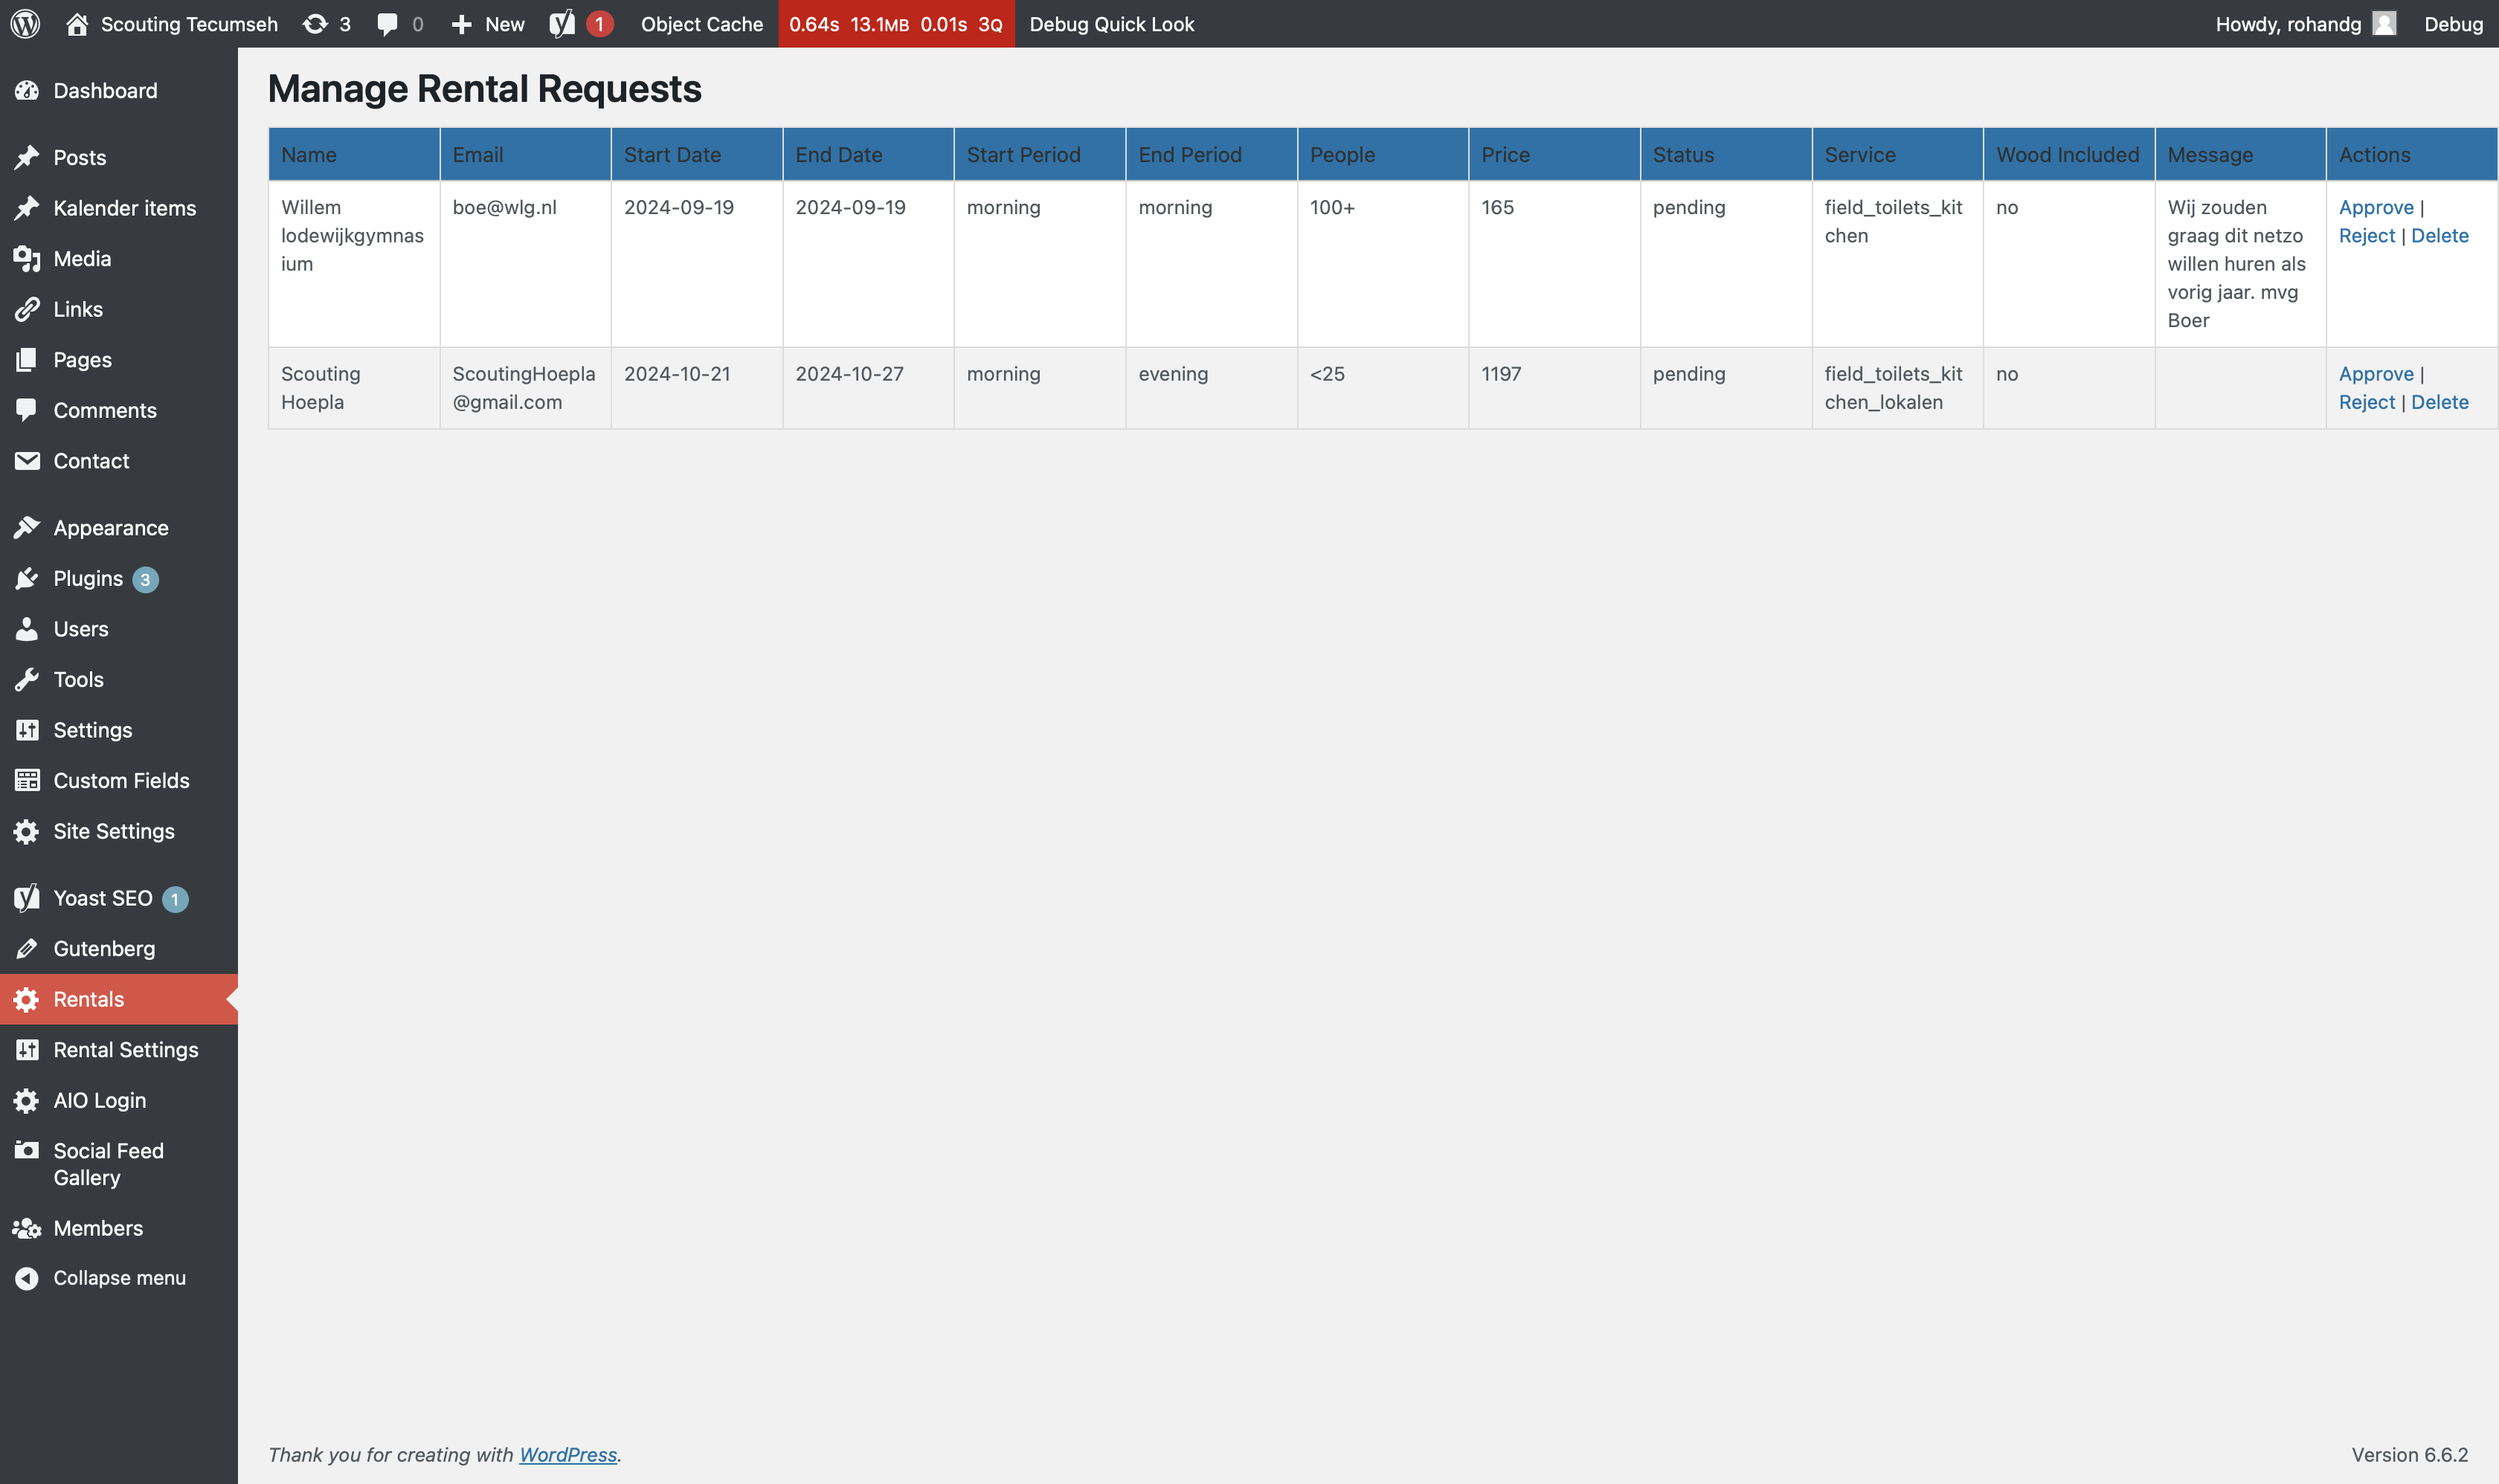
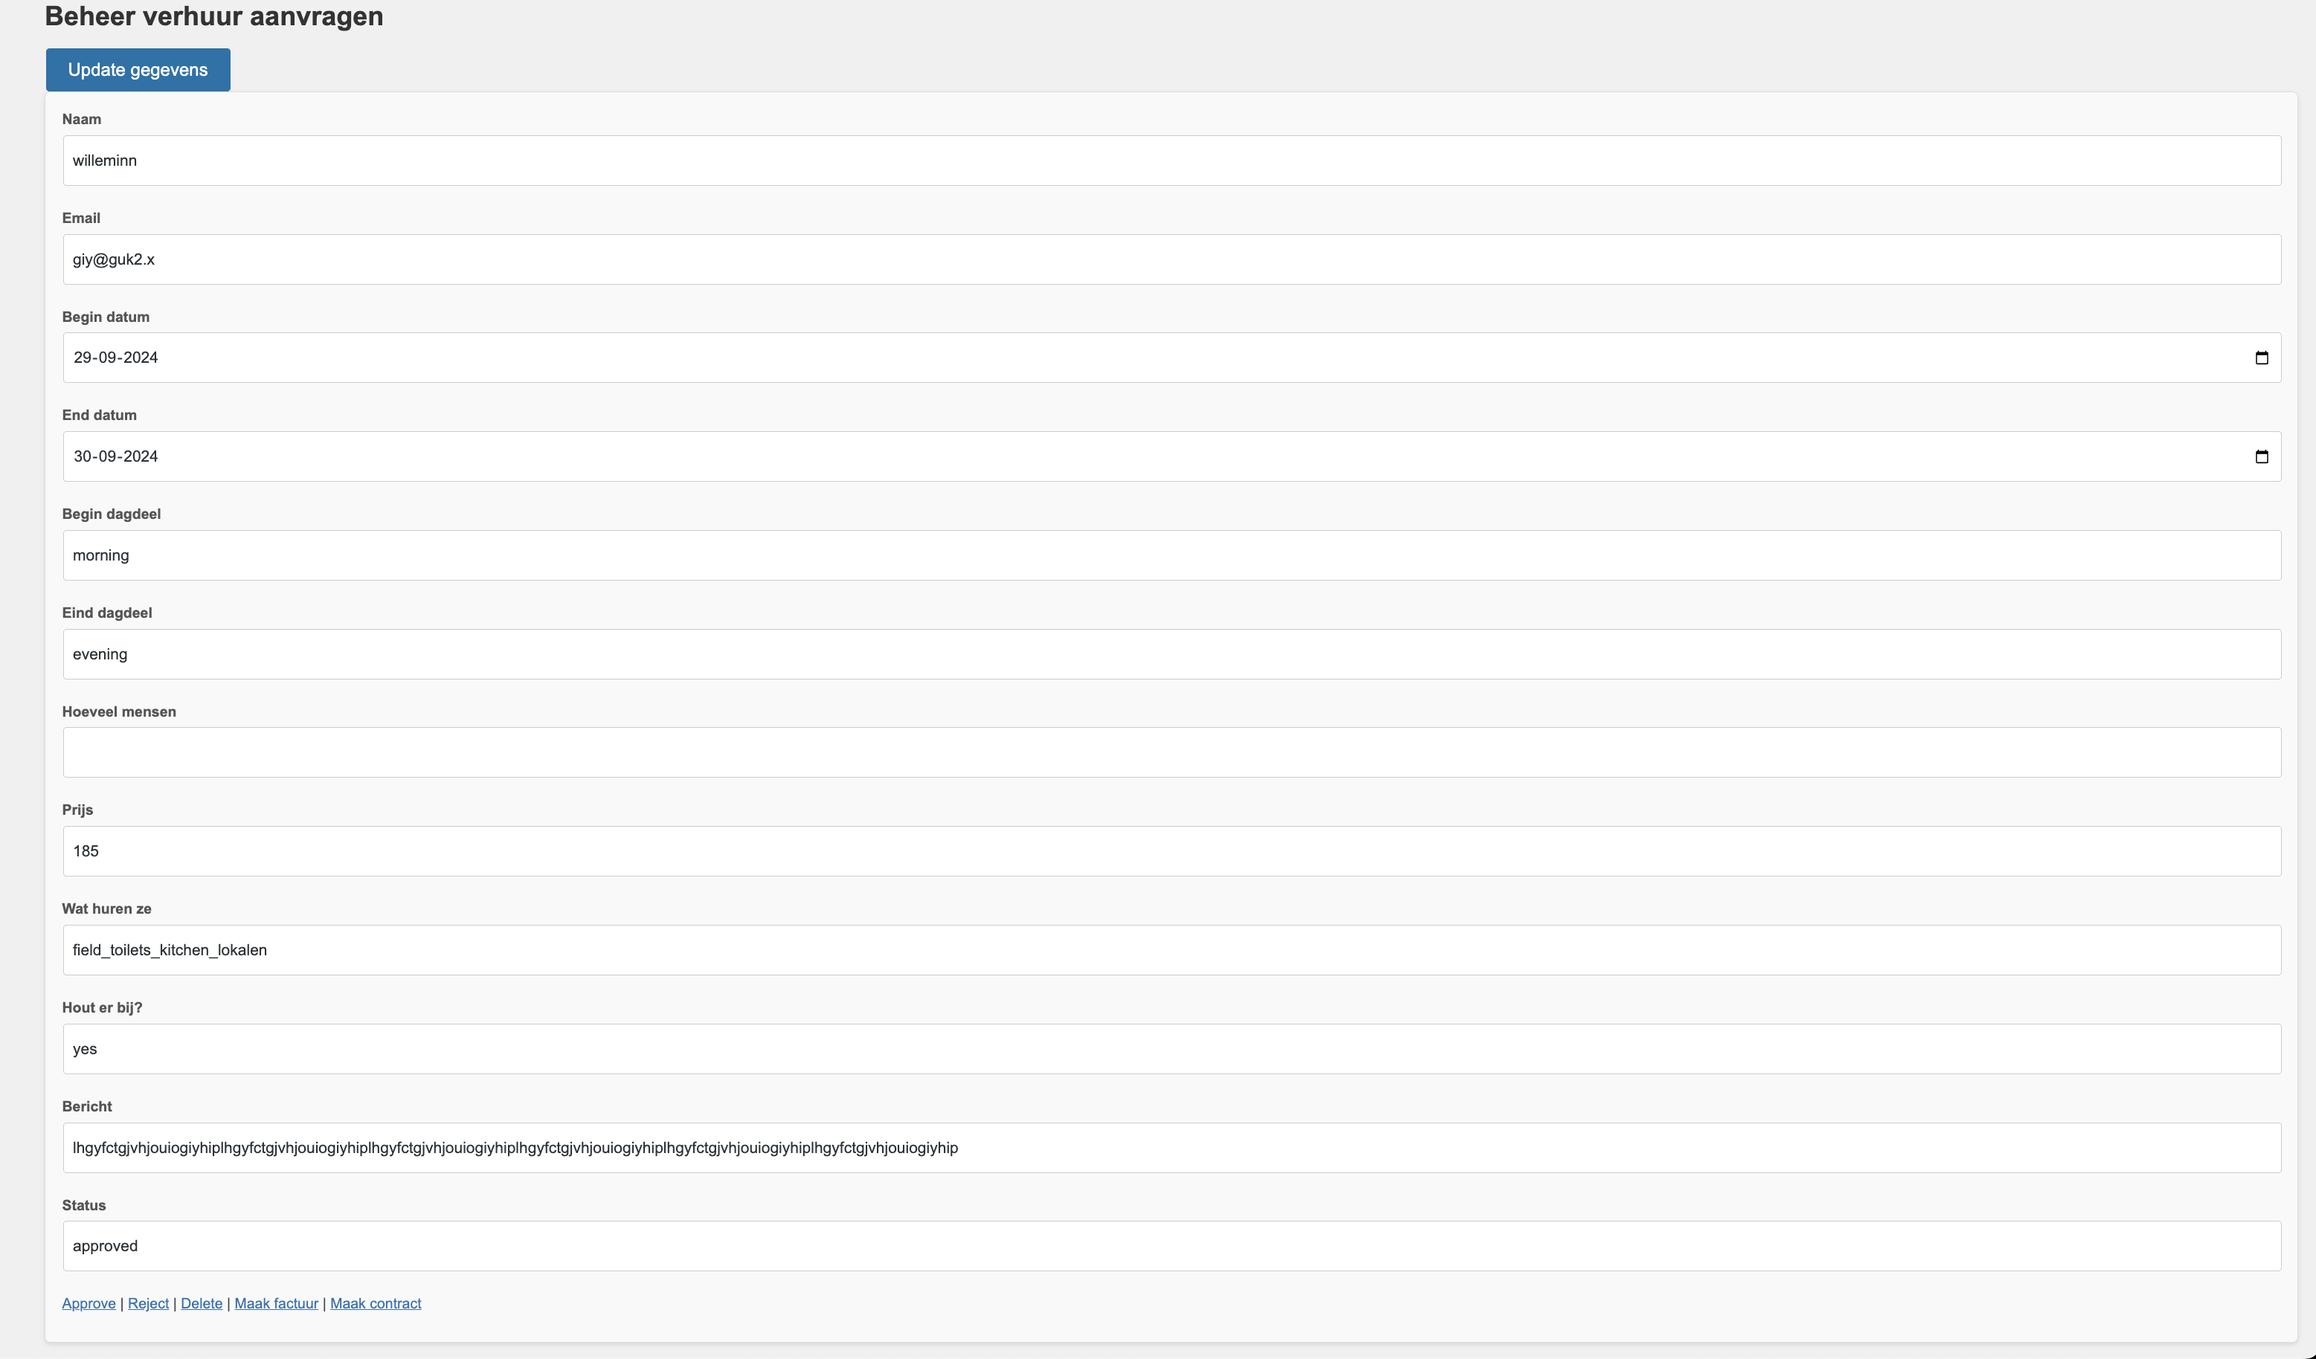
de Zeer grote "beheer update"
het hele contole paneel is aangepast. er is zelfs met de contract functies en de verhuur overeenkomst functie een begin gemaakt

diff --git a/includes/css/admin-style.css b/includes/css/admin-style.css
@@ -1,33 +1,71 @@
 .scouting-rentals-admin {
-    max-width: 100%;
-    overflow-x: auto;
+    padding: 20px;
+    font-family: Arial, sans-serif;
 }
 
-.scouting-rentals-admin table {
-    width: 100%;
-    border-collapse: collapse;
+.scouting-rentals-admin h1 {
+    margin-bottom: 20px;
+    font-size: 24px;
+    color: #333;
 }
 
-.scouting-rentals-admin th, .scouting-rentals-admin td {
+.scouting-rentals-admin .rental-item {
     border: 1px solid #ddd;
+    padding: 15px;
+    margin-bottom: 20px;
+    background-color: #f9f9f9;
+    border-radius: 5px;
+    box-shadow: 0 2px 4px rgba(0, 0, 0, 0.1);
+}
+
+.scouting-rentals-admin .rental-item div {
+    margin-bottom: 10px;
+}
+
+.scouting-rentals-admin label {
+    display: block;
+    font-weight: bold;
+    margin-bottom: 5px;
+    color: #555;
+}
+
+.scouting-rentals-admin input[type="text"],
+.scouting-rentals-admin input[type="email"],
+.scouting-rentals-admin input[type="date"],
+.scouting-rentals-admin input[type="number"] {
+    width: 100%;
     padding: 8px;
-    text-align: left;
+    box-sizing: border-box;
+    margin-bottom: 10px;
+    border: 1px solid #ccc;
+    border-radius: 3px;
 }
 
-.scouting-rentals-admin tr:nth-child(even) {
-    background-color: #f2f2f2;
+.scouting-rentals-admin .actions {
+    margin-top: 10px;
 }
 
-.scouting-rentals-admin th {
-    background-color: #0073aa;
-    color: white;
-}
-
-.scouting-rentals-admin a {
-    color: #0073aa;
+.scouting-rentals-admin .actions a {
+    margin-right: 10px;
     text-decoration: none;
+    color: #0073aa;
+    font-weight: bold;
 }
 
-.scouting-rentals-admin a:hover {
+.scouting-rentals-admin .actions a:hover {
     text-decoration: underline;
+}
+
+.scouting-rentals-admin input[type="submit"] {
+    background-color: #0073aa;
+    color: #fff;
+    padding: 10px 20px;
+    border: none;
+    border-radius: 3px;
+    cursor: pointer;
+    font-size: 16px;
+}
+
+.scouting-rentals-admin input[type="submit"]:hover {
+    background-color: #005a8c;
 }

diff --git a/includes/admin-page.php b/includes/admin-page.php
@@ -1,9 +1,10 @@
 <?php
-function scouting_rentals_admin_styles() {
-    wp_enqueue_style('scouting-rentals-admin', plugins_url('/css/admin-style.css', __FILE__));
-}
 add_action('admin_enqueue_scripts', 'scouting_rentals_admin_styles');
-// Add admin menu
+function scouting_rentals_admin_styles() {
+    wp_enqueue_style('scouting-rentals-admin-css', plugin_dir_url(__FILE__) . '/css/admin-style.css');
+}
+
+add_action('admin_menu', 'scouting_rentals_admin_menu');
 function scouting_rentals_admin_menu() {
     add_menu_page(
         'Scouting Rentals', 
@@ -14,63 +15,98 @@ function scouting_rentals_admin_menu() {
         'dashicons-admin-generic'
     );
 }
-add_action('admin_menu', 'scouting_rentals_admin_menu');
 
-// Admin page content
 function scouting_rentals_admin_page() {
     global $wpdb;
     $table_name = $wpdb->prefix . 'scouting_rentals';
+
+    // Handle form submission
+    if ($_SERVER['REQUEST_METHOD'] == 'POST' && isset($_POST['update_rentals'])) {
+        foreach ($_POST['id'] as $index => $id) {
+            $name = sanitize_text_field($_POST['name'][$index]);
+            $email = sanitize_email($_POST['email'][$index]);
+            $start_date = sanitize_text_field($_POST['start_date'][$index]);
+            $end_date = sanitize_text_field($_POST['end_date'][$index]);
+            $start_period = sanitize_text_field($_POST['start_period'][$index]);
+            $end_period = sanitize_text_field($_POST['end_period'][$index]);
+            $number_of_people = sanitize_text_field($_POST['number_of_people'][$index]);
+            $total_price = floatval($_POST['total_price'][$index]);
+            $status = sanitize_text_field($_POST['status'][$index]);
+            $service = sanitize_text_field($_POST['service'][$index]);
+            $wood_included = sanitize_text_field($_POST['wood_included'][$index]);
+            $message = sanitize_text_field($_POST['message'][$index]);
+
+            $wpdb->update(
+                $table_name,
+                [
+                    'name' => $name,
+                    'email' => $email,
+                    'start_date' => $start_date,
+                    'end_date' => $end_date,
+                    'start_period' => $start_period,
+                    'end_period' => $end_period,
+                    'number_of_people' => $number_of_people,
+                    'total_price' => $total_price,
+                    'status' => $status,
+                    'service' => $service,
+                    'wood_included' => $wood_included,
+                    'message' => $message
+                ],
+                ['id' => $id]
+            );
+        }
+    }
+
     $results = $wpdb->get_results("SELECT * FROM $table_name");
     echo '<div class="scouting-rentals-admin">';
     echo '<h1>Beheer verhuur aanvragen</h1>';
-    echo '<table class="widefat fixed" cellspacing="0">';
-    // Add headers for Start Period, End Period, and Message
-    echo '<thead><tr><th>Naam</th><th>Email</th><th>Begin datum</th><th>End datum</th><th>Begin dagdeel</th><th>Eind dagdeel</th><th>Hoeveel mensen</th><th>Prijs</th><th>Status</th><th>Wat huren ze</th><th>Hout er bij?</th><th>Bericht</th><th>Acties</th></tr></thead>';
-    echo '<tbody>';
+    echo '<form method="post" action="">';
+    echo '<input type="submit" name="update_rentals" value="Update gegevens">';
     foreach ($results as $row) {
-        // Ensure properties exist before accessing them
+        $id = esc_html($row->id);
         $name = esc_html($row->name);
         $email = esc_html($row->email);
         $start_date = esc_html($row->start_date);
         $end_date = esc_html($row->end_date);
         $start_period = isset($row->start_period) ? esc_html($row->start_period) : 'N/A';
         $end_period = isset($row->end_period) ? esc_html($row->end_period) : 'N/A';
-        $number_of_people = isset($row->number_of_people) ? esc_html($row->number_of_people) : 'N/A';
+        $number_of_people = esc_html($row->number_of_people);
         $total_price = isset($row->total_price) ? esc_html($row->total_price) : 'N/A';
         $status = isset($row->status) ? esc_html($row->status) : 'N/A';
         $service = isset($row->service) ? esc_html($row->service) : 'N/A';
         $wood_included = isset($row->wood_included) ? esc_html($row->wood_included) : 'N/A';
-        $message = esc_html($row->message); // Fetch message
-        
-        echo '<tr>';
-        echo '<td>' . $name . '</td>';
-        echo '<td>' . $email . '</td>';
-        echo '<td>' . $start_date . '</td>';
-        echo '<td>' . $end_date . '</td>';
-        echo '<td>' . $start_period . '</td>';
-        echo '<td>' . $end_period . '</td>';
-        echo '<td>' . $number_of_people . '</td>';
-        echo '<td>' . $total_price . '</td>';
-        echo '<td>' . $status . '</td>';
-        echo '<td>' . $service . '</td>';
-        echo '<td>' . $wood_included . '</td>';
-        echo '<td>' . $message . '</td>'; // Display message
-        echo '<td>';
-        echo '<a href="?page=scouting_rentals&approve=' . intval($row->id) . '">Approve</a> | ';
+        $message = esc_html($row->message);
+
+        echo '<div class="rental-item">';
+        echo '<input type="hidden" name="id[]" value="' . $id . '">';
+        echo '<div><label>Naam</label><input type="text" name="name[]" value="' . $name . '"></div>';
+        echo '<div><label>Email</label><input type="email" name="email[]" value="' . $email . '"></div>';
+        echo '<div><label>Begin datum</label><input type="date" name="start_date[]" value="' . $start_date . '"></div>';
+        echo '<div><label>End datum</label><input type="date" name="end_date[]" value="' . $end_date . '"></div>';
+        echo '<div><label>Begin dagdeel</label><input type="text" name="start_period[]" value="' . $start_period . '"></div>';
+        echo '<div><label>Eind dagdeel</label><input type="text" name="end_period[]" value="' . $end_period . '"></div>';
+        echo '<div><label>Hoeveel mensen</label><input type="text" name="number_of_people[]" value="' . $number_of_people . '"></div>';
+        echo '<div><label>Prijs</label><input type="text" name="total_price[]" value="' . $total_price . '"></div>';
+        echo '<div><label>Wat huren ze</label><input type="text" name="service[]" value="' . $service . '"></div>';
+        echo '<div><label>Hout er bij?</label><input type="text" name="wood_included[]" value="' . $wood_included . '"></div>';
+        echo '<div><label>Bericht</label><input type="text" name="message[]" value="' . $message . '"></div>';
+        echo '<div><label>Status</label><input type="text" name="status[]" value="' . $status . '"></div>';
+        echo '<div><a href="?page=scouting_rentals&approve=' . intval($row->id) . '">Approve</a> | ';
         echo '<a href="?page=scouting_rentals&reject=' . intval($row->id) . '">Reject</a> | ';
-        echo '<a href="?page=scouting_rentals&delete=' . intval($row->id) . '">Delete</a>';
-        echo '</td>';
-        echo '</tr>';
+        echo '<a href="?page=scouting_rentals&delete=' . intval($row->id) . '">Delete</a> | ';
+        echo '<a href="?page=scouting_rentals&factuur=' . intval($row->id) . '">Maak factuur</a> | ';
+        echo '<a href="?page=scouting_rentals&contract=' . intval($row->id) . '">Maak contract</a></div>';
+        echo '</div>';
     }
-    echo '</tbody>';
-    echo '</table>';
-    echo '</div>'; // Close the wrapper div
+
+    echo '</form>';
+    echo '</div>';
 }
 
-// Handle approve, reject, delete
+add_action('admin_init', 'handle_scouting_rentals_actions');
 function handle_scouting_rentals_actions() {
+    global $wpdb;
     if (isset($_GET['approve'])) {
-        global $wpdb;
         $id = intval($_GET['approve']);
         $wpdb->update(
             $wpdb->prefix . 'scouting_rentals',
@@ -79,7 +115,6 @@ function handle_scouting_rentals_actions() {
         );
     }
     if (isset($_GET['reject'])) {
-        global $wpdb;
         $id = intval($_GET['reject']);
         $wpdb->update(
             $wpdb->prefix . 'scouting_rentals',
@@ -88,13 +123,18 @@ function handle_scouting_rentals_actions() {
         );
     }
     if (isset($_GET['delete'])) {
-        global $wpdb;
         $id = intval($_GET['delete']);
         $wpdb->delete(
             $wpdb->prefix . 'scouting_rentals',
             array('id' => $id)
         );
     }
+    if (isset($_GET['factuur'])) {
+        $id = intval($_GET['factuur']);
+        echo '<div class="notice notice-success is-dismissible"><p>Factuur voor ID ' . $id . ' wordt aangemaakt aangemaakt (moet nog gemaakt worden).</p></div>';
+    }
+    if (isset($_GET['contract'])) {
+        $id = intval($_GET['contract']);
+        echo '<div class="notice notice-success is-dismissible"><p>Contract voor ID ' . $id . ' wordt aangemaakt aangemaakt (moet nog gemaakt worden).</p></div>';
+    }
 }
-add_action('admin_init', 'handle_scouting_rentals_actions');
-?>

diff --git a/tecumseh-verhuur.php b/tecumseh-verhuur.php
@@ -8,7 +8,7 @@
  * Plugin Name:       Tecumseh Verhuur
  * Plugin URI:        https://github.com/ProfRedRooster/Tecumseh-verhuur/
  * Description:       Administratie verhuur en verhuur formulieren
- * Version:           0.0.4
+ * Version:           0.0.5
  * Author:            Rohan de Graaf
  * Author URI:        https://rohandg.nl/
  * Text Domain:       tecumseh_beheer

diff --git a/docs/readme.md b/docs/readme.md
@@ -5,7 +5,7 @@ Dit project maak ik voor HPG (Honours Programma Gymnasia)
 Huidige functies:
 - Het formulier
 - De prijscalculator is serverzijde
-- Het beheerderspaneel
+- Het beheerderspaneel 
 - Het instellingenpaneel
 - Aankomende reserveringen
 - De ochtend/middag functie in de database + formulier + prijscalculatie :)
@@ -30,7 +30,7 @@ Lijst van shortcodes:
 Dit is "work in progress"
 
 ---
-Het reserveringscontrolepaneel
+Het reserveringscontrolepaneel (Je kan alle gegevens makkelijk aanpassen)
 ![Afbeelding 1](https://verhuur.rohandg.nl/1.png)
 ---
 Het prijscontrolepaneel
